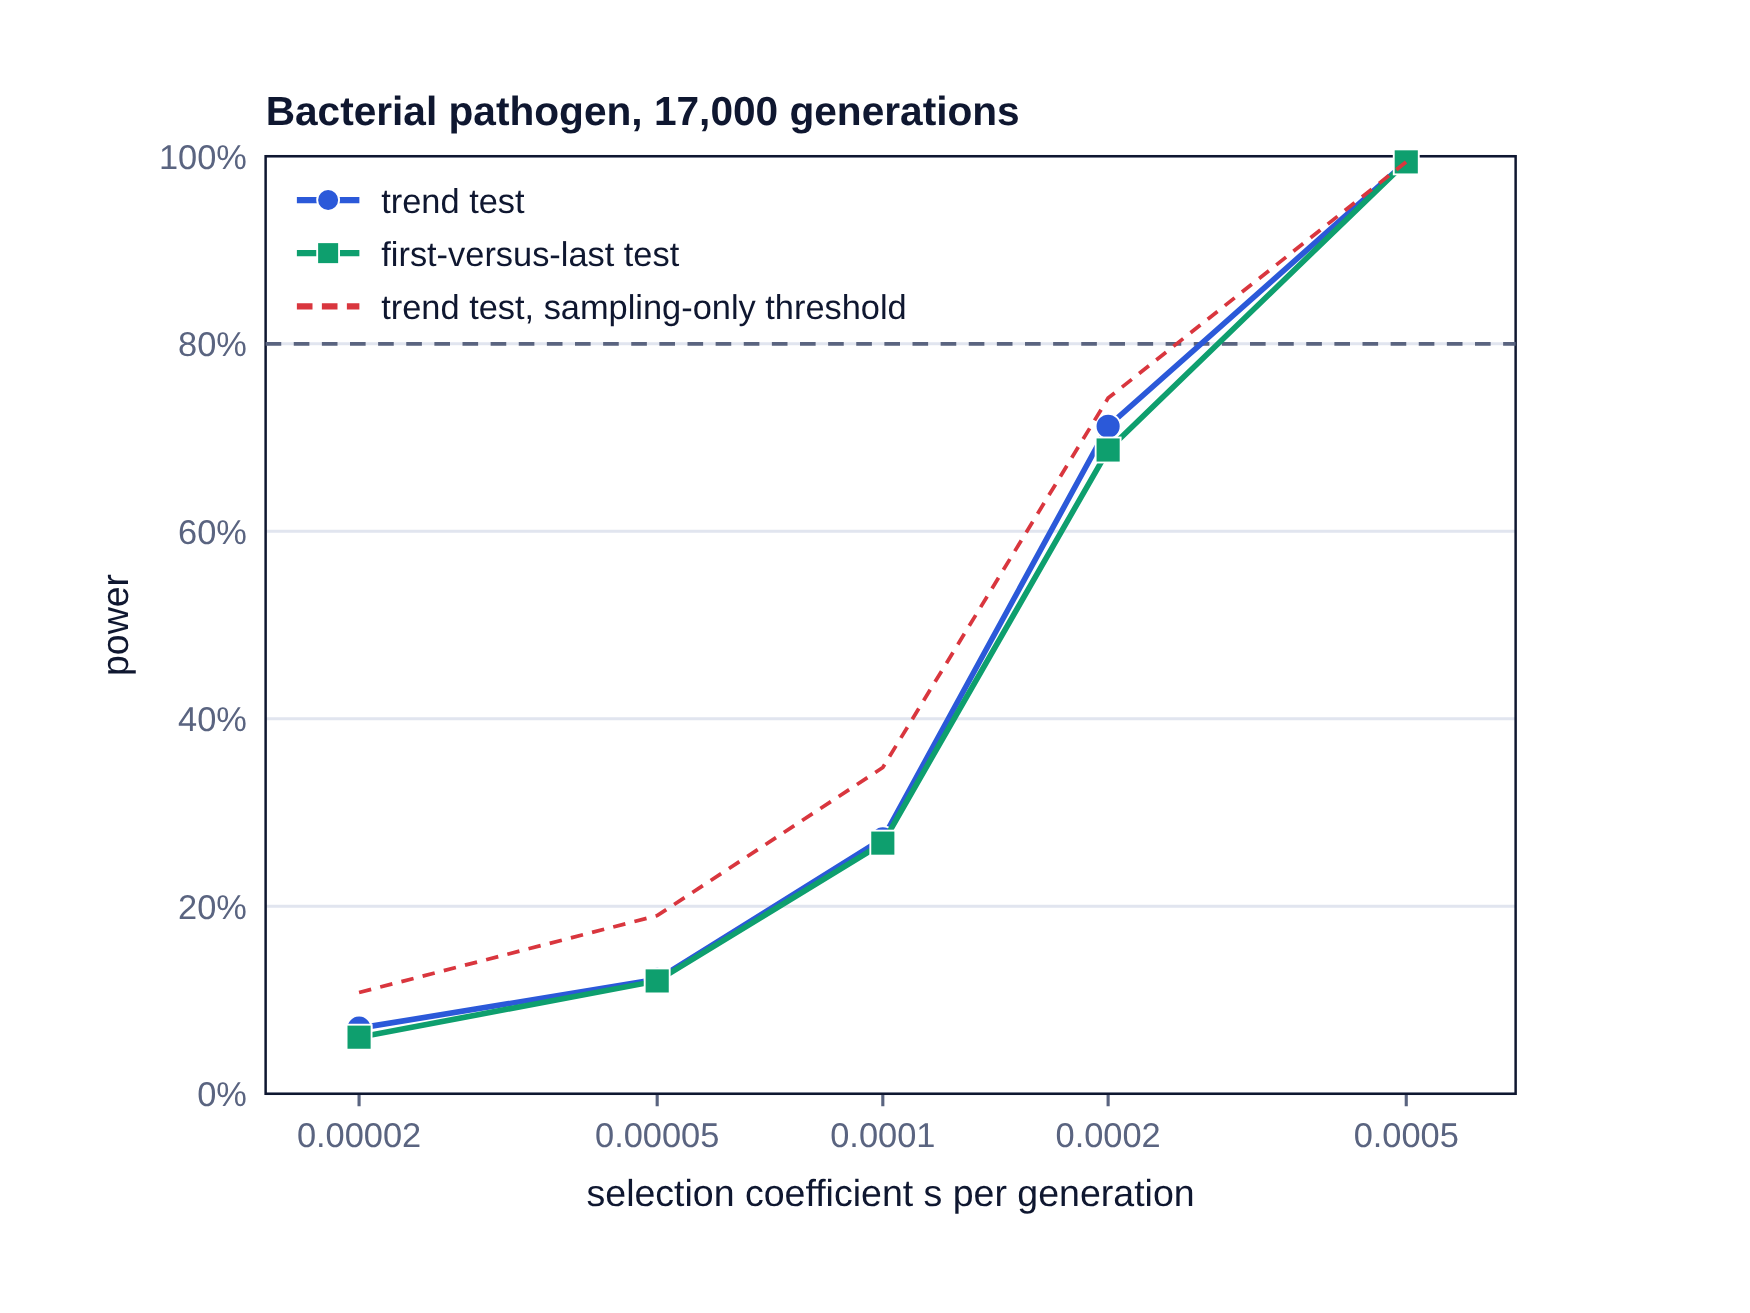
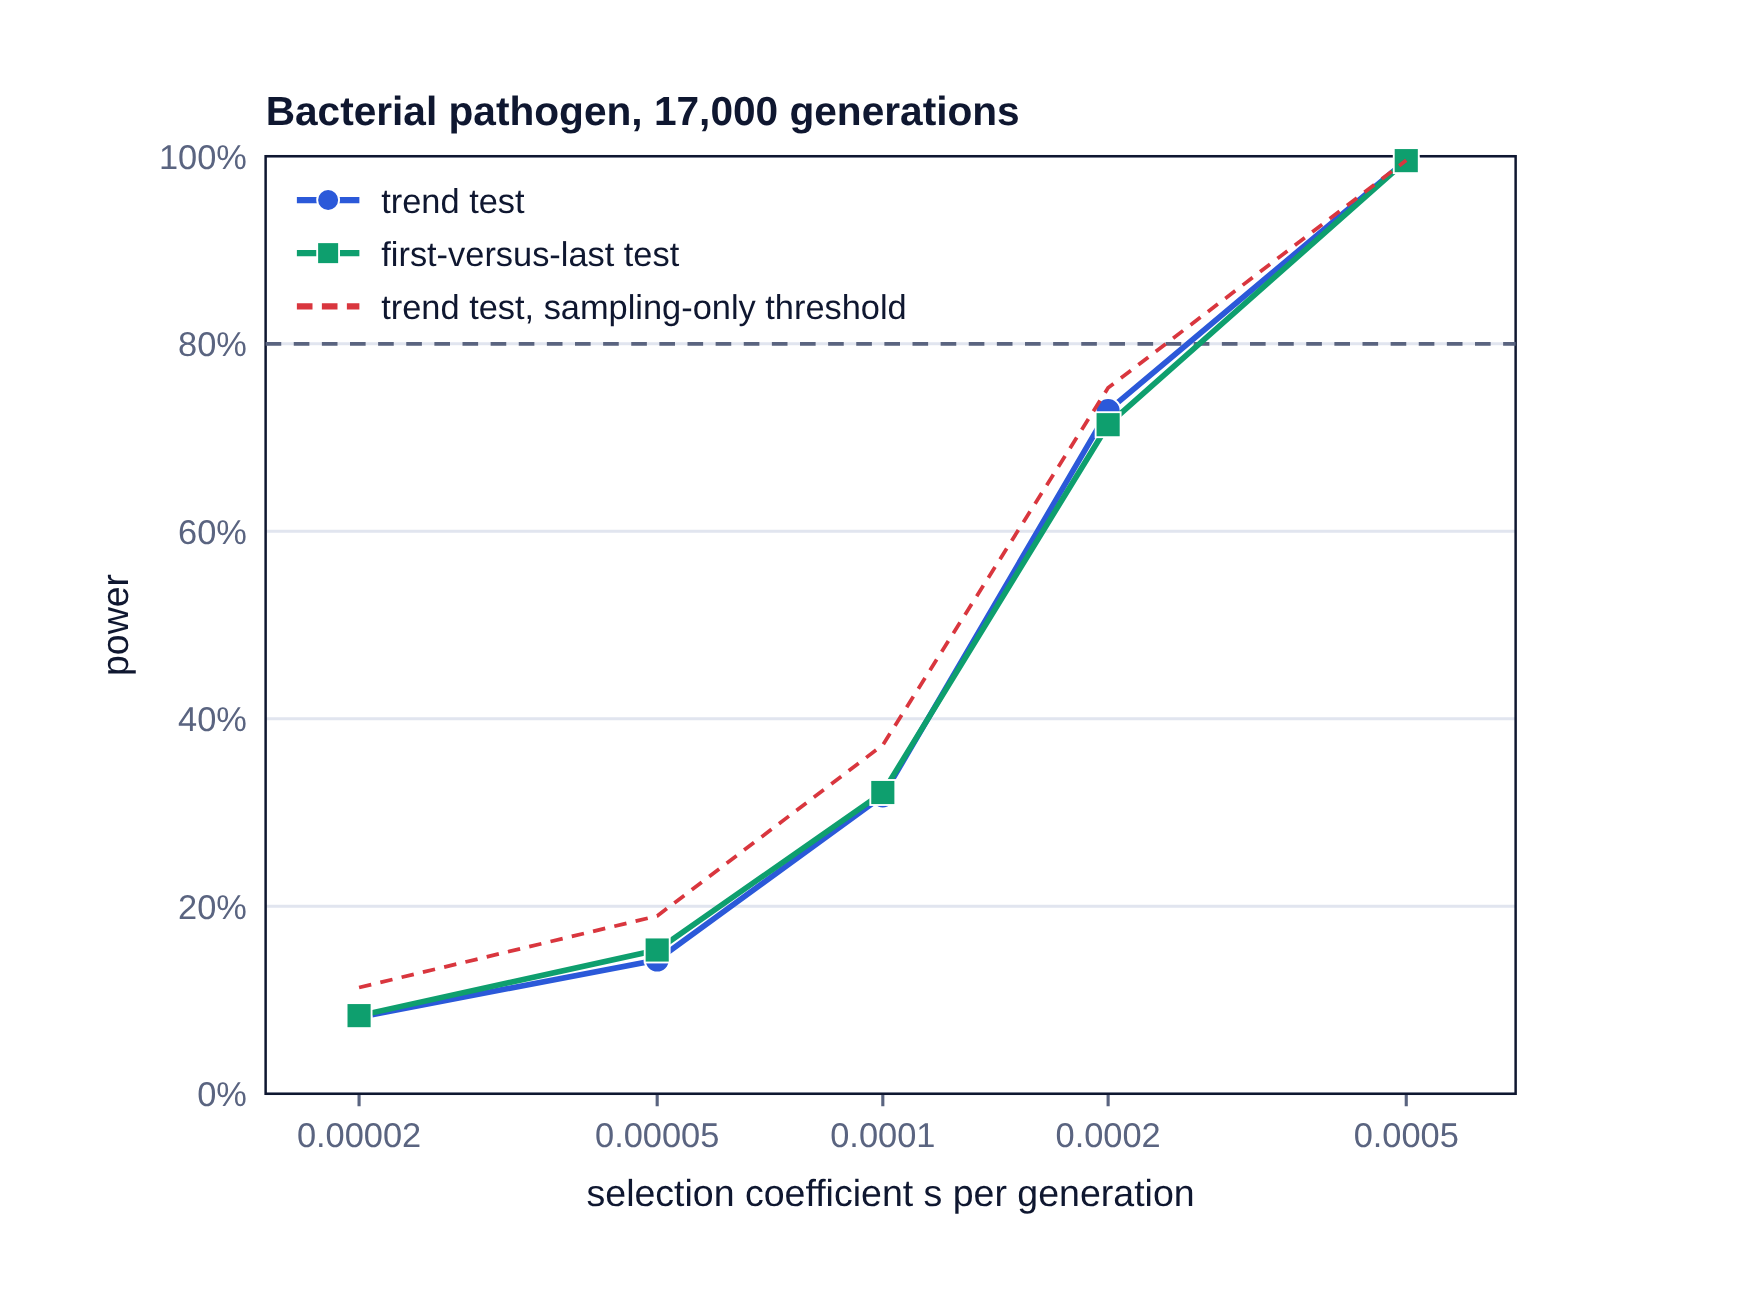
Bacterial pathogen example (Supporting Information S6.4, Figure S5) rerun with 5,000 selection simulations instead of 500; no-drift example now referred to Supporting Information S1.11

Changed region(s): [[0.1851, 0.1561, 0.7714, 0.8119], [0.7714, 0.1249, 0.8023, 0.1561]]

diff --git a/paper/worked_examples/worked_examples.js b/paper/worked_examples/worked_examples.js
@@ -60,7 +60,7 @@ if (part === 'D') {
 }
 if (part === 'E') {
   console.log(['s_per_generation', 's_per_year', ...H].join('\t'));
-  for (const s of [0.00002, 0.00005, 0.0001, 0.0002, 0.0005]) { console.log([s, (s * 100).toPrecision(2), ...run(PATHOGEN, {s, reps: 500})].join('\t')); log('E ' + s); }
+  for (const s of [0.00002, 0.00005, 0.0001, 0.0002, 0.0005]) { console.log([s, (s * 100).toPrecision(2), ...run(PATHOGEN, {s, reps: 5000})].join('\t')); log('E ' + s); }
 }
 if (part === 'F') { // human aDNA: depth of the five ancient samples (present-day sample stays at 20x); minimum depth 1 read
   console.log(['ancient_depth', 's', ...HQ].join('\t'));

diff --git a/paper/validation/nodrift_example.js b/paper/validation/nodrift_example.js
@@ -1,4 +1,4 @@
-// No-drift example (Results 3.1): the two thresholds still differ slightly without drift, with unrelated individuals
+// No-drift example (Supporting Information S1.11): the two thresholds still differ slightly without drift, with unrelated individuals
 // and perfect genotypes, when the favoured allele is rare (few distinct values of Z).
 // Diploid, p0 = 0.01, s = 0.05, sampling design of the reference case. One SPOT run with the default numbers of
 // simulations (1,000 selection, 2,000 neutral; seed 1) gives the threshold and the two powers; the false-positive

diff --git a/paper/README.md b/paper/README.md
@@ -7,7 +7,7 @@ This folder contains everything needed to reproduce the results of the article d
 | Figure 1 | `figures/make_figure1.js`, `figures/assemble_figure1.py` | `figures/Figure1.png` |
 | Figure 2; Tables S1–S3 | `validation/false_positive_rate.js` (letters A, B, C and G); `validation/fpr_figure.py` | `validation/fpr_A.tsv`, `fpr_B.tsv`, `fpr_C.tsv`, `fpr_C_gaussian.tsv` |
 | Figure 3; Table S9 (museum insect case study) | `worked_examples/worked_examples.js` (letters A, B, C), `validation/depth_case.js`; `worked_examples/figures.py` | `worked_examples/bee_s_p0.tsv`, `bee_allocation.tsv`, `bee_ne.tsv`, `depth_case.tsv` |
-| Example without drift (Section 3.1) | `validation/nodrift_example.js` | `validation/nodrift_example.tsv` |
+| Example without drift (S1.11) | `validation/nodrift_example.js` | `validation/nodrift_example.tsv` |
 | Agreement with theory (S3; Table S4, Figure S1) | `validation/theory_spot.js`, `validation/theory_check.py`, `validation/sibling_path_check.js`, `validation/migration_diversity_check.js` | `validation/theory_spot.json`, `theory_power.tsv`, `theory_drift.tsv`, `sibling_path_check.tsv`, `migration_diversity.tsv` |
 | Comparison with SLiM (S4; Tables S5–S6, Figure S2) | `validation/slim_check.slim`, `slim_runs.sh`, `slim_runs_v2.sh`, `slim_compare.js`, `slim_compare_v2.js`, `slim_power_spot_threshold.js`, `slim_regression.py` | `validation/slim_*.tsv`; SLiM outputs in `validation/slim_out/` |
 | Precision and speed (S5; Table S7, Figure S3) | `validation/monte_carlo_precision.js`, `validation/speed.js` | `validation/mc_precision.tsv`, `speed.tsv` |
